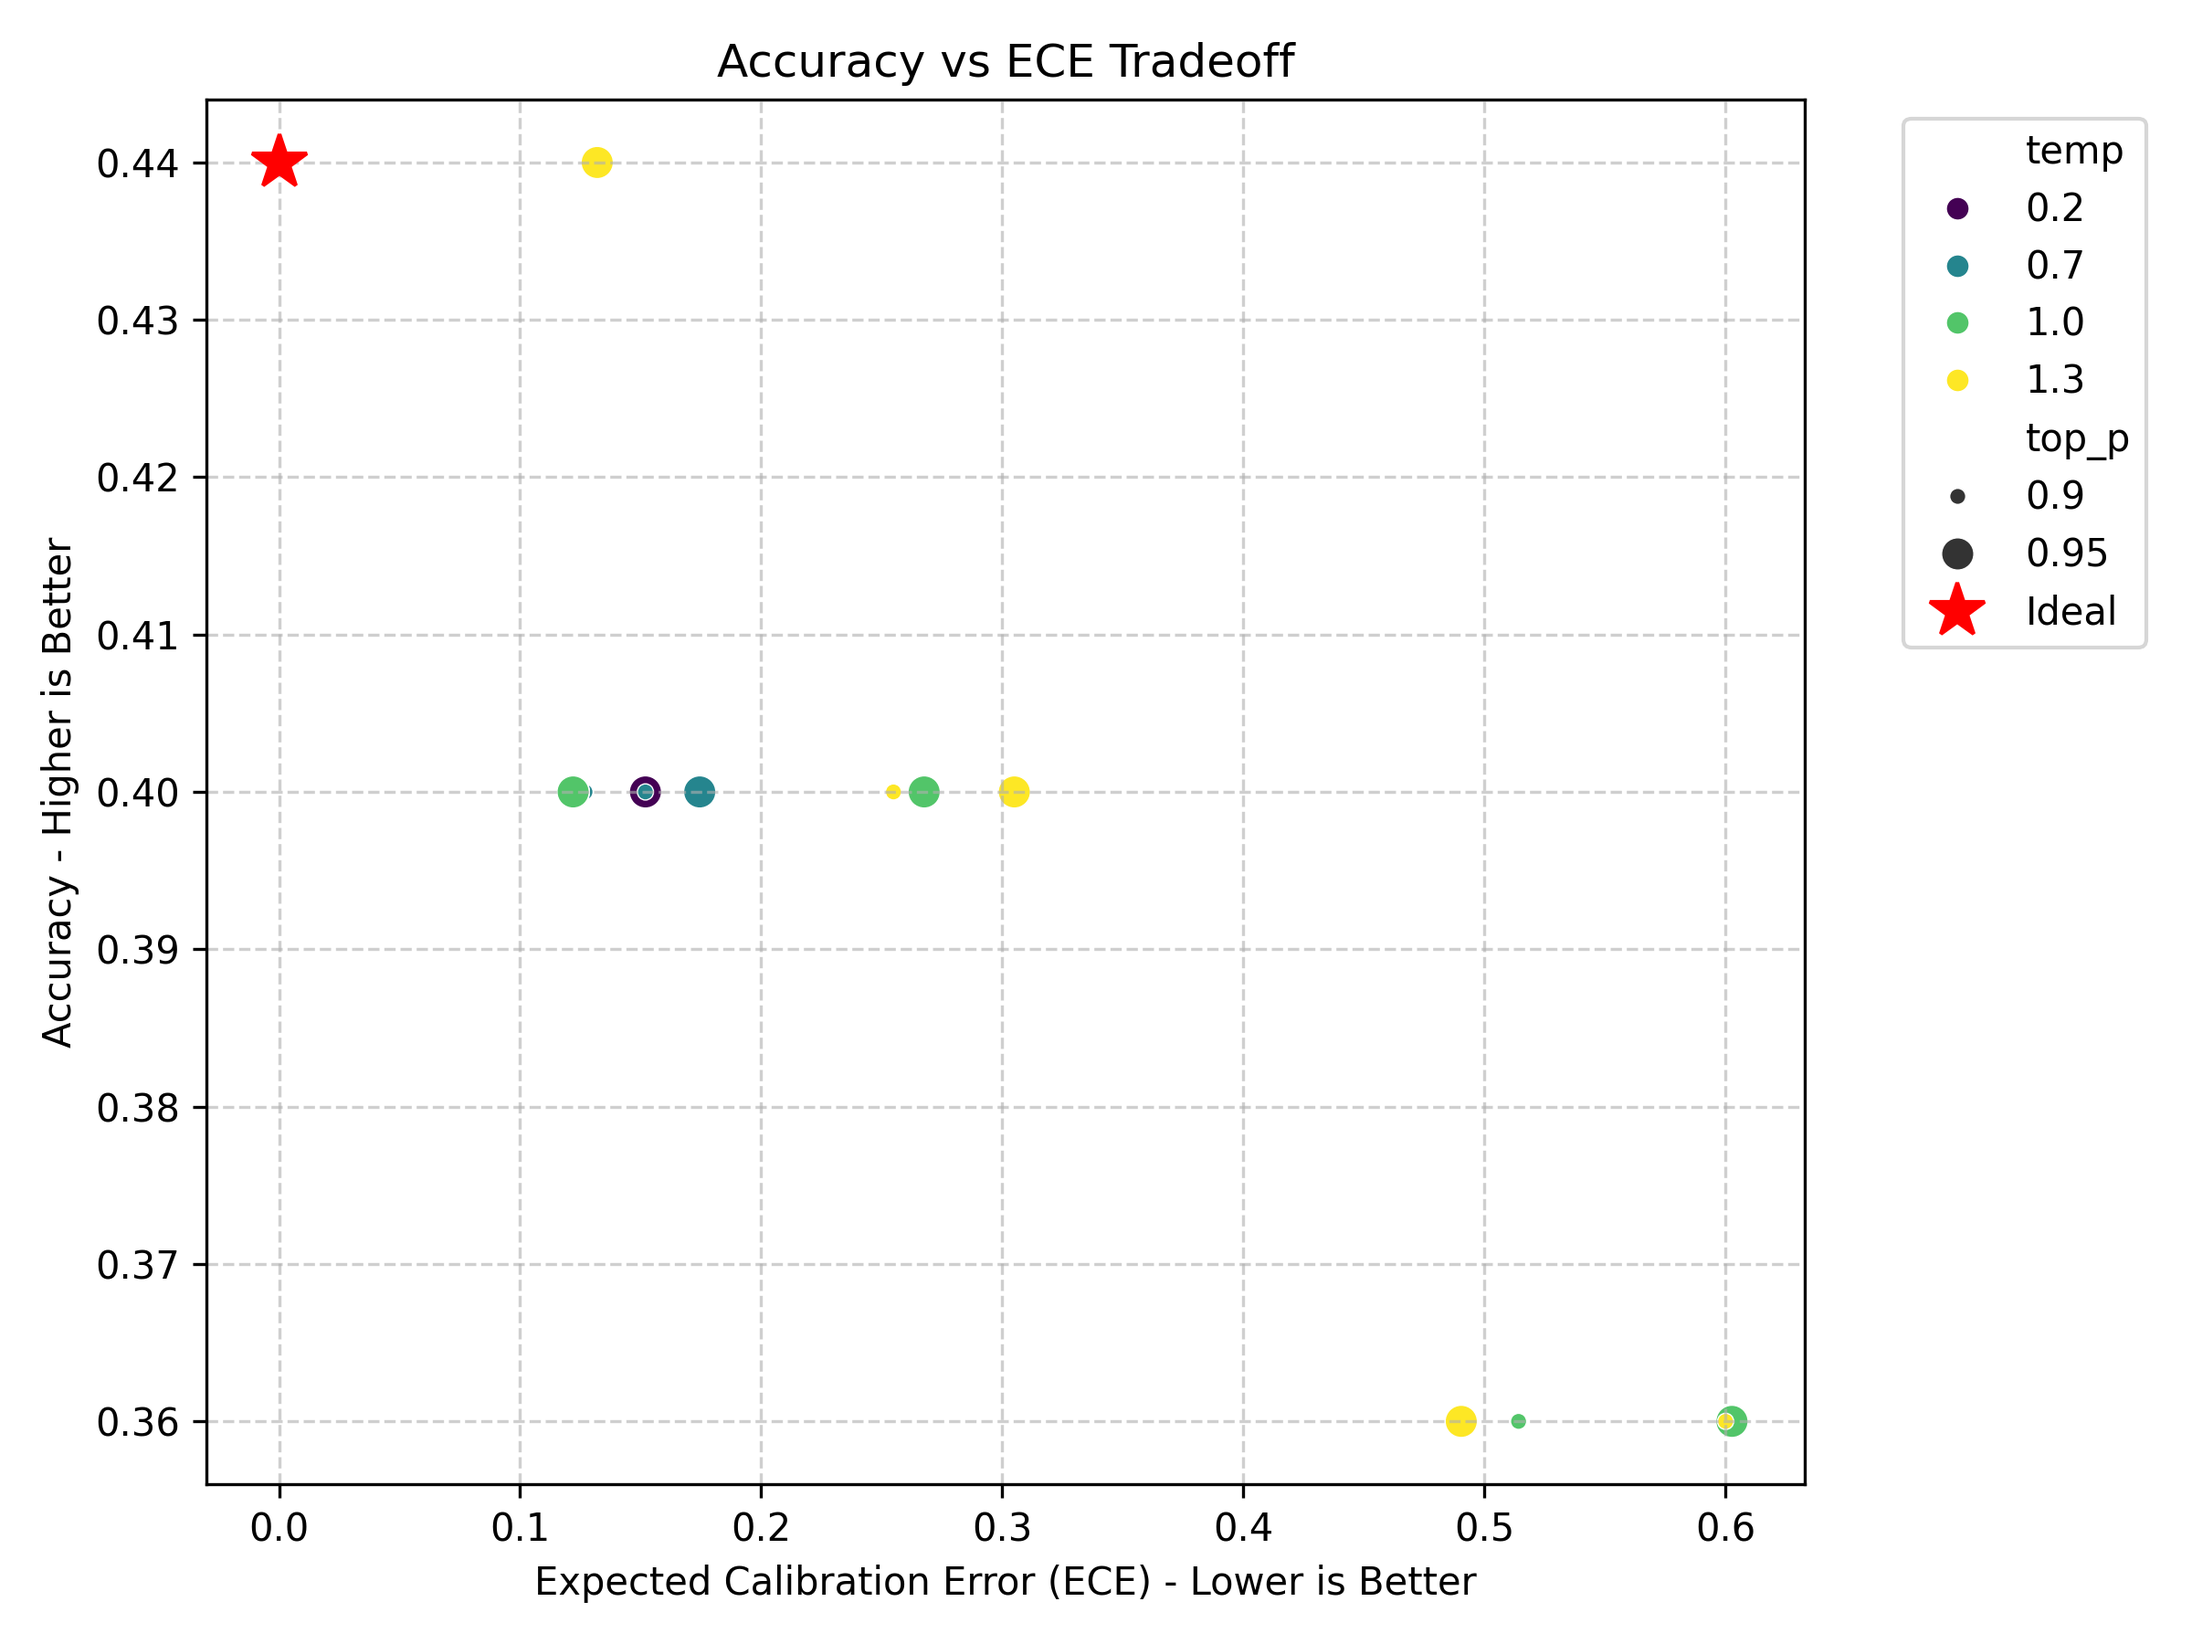
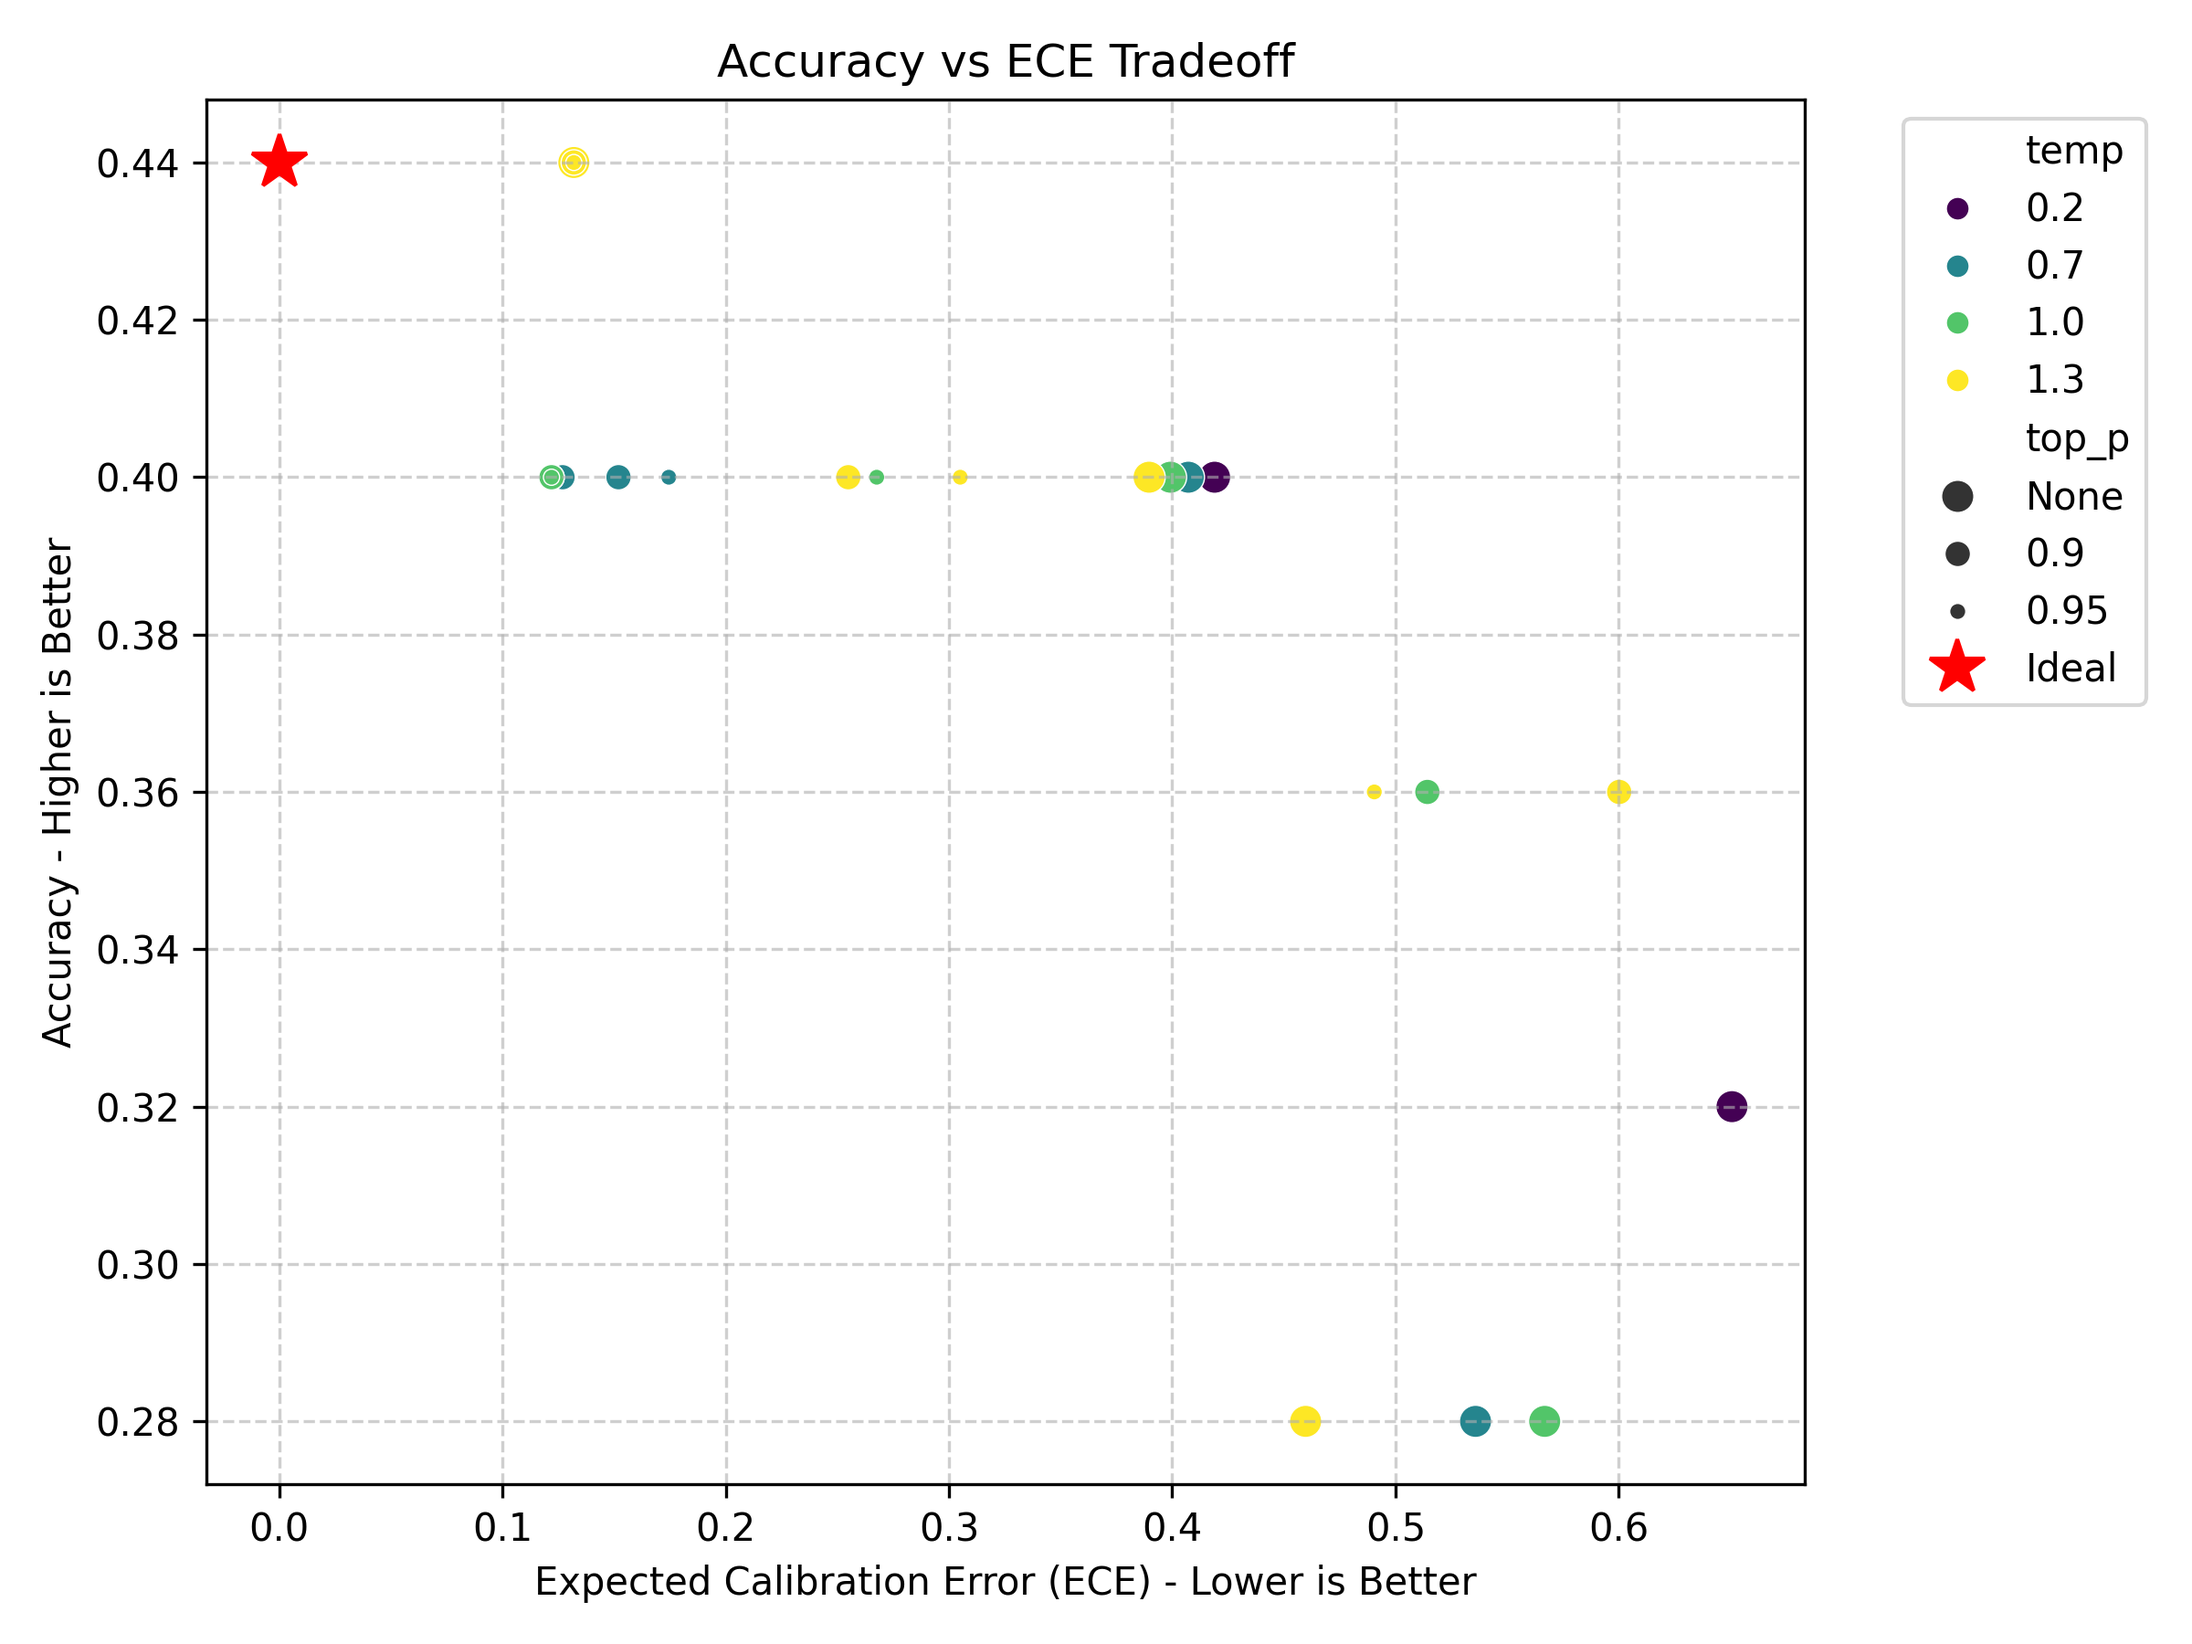
Keep 'None' top_p/top_k labels when plotting sweep results
pd.read_csv parsed the literal 'None' as NaN, so seaborn dropped the
12 untruncated configs and rendered the remaining numeric top_p values
on a sequential palette where 0.9 was near-white. Reading with
keep_default_na=False keeps all 36 configs and gives each top_p/top_k
value a distinct categorical color/style. Regenerated the three
tradeoff figures and findings notes.

diff --git a/scripts/plot_tradeoffs.py b/scripts/plot_tradeoffs.py
@@ -4,7 +4,7 @@ import seaborn as sns
 import os
 
 def plot_tradeoffs(csv_path="results/sweep_master_results.csv", output_dir="figures/"):
-    df = pd.read_csv(csv_path)
+    df = pd.read_csv(csv_path, keep_default_na=False)  # "None" = truncation off; NaN would be dropped by seaborn
     os.makedirs(output_dir, exist_ok=True)
     
     # 1. Accuracy vs Temperature (colored by top-p or top-k)
@@ -47,7 +47,7 @@ def plot_tradeoffs(csv_path="results/sweep_master_results.csv", output_dir="figu
     print(f"Generated tradeoff plots in {output_dir}")
 
 def write_findings(csv_path="results/sweep_master_results.csv", output_path="results/findings_notes.md"):
-    df = pd.read_csv(csv_path)
+    df = pd.read_csv(csv_path, keep_default_na=False)  # "None" = truncation off; NaN would be dropped by seaborn
     
     # Extract bests
     best_acc = df.loc[df['accuracy'].idxmax()]

diff --git a/results/findings_notes.md b/results/findings_notes.md
@@ -4,5 +4,5 @@
 2. **Temperature drives ECE up rapidly:** Increasing temperature heavily worsens calibration (increases ECE). The model becomes artificially overconfident or underconfident, skewing the softmax probabilities without changing the underlying argmax prediction.
 3. **Top-k and Top-p interaction with Confidence:** Extremely severe top-k or top-p truncations can cause the probability of the correct sequence to drop to zero (represented as negative infinity log likelihood). In our tests, `top_k=40` actually improved ECE at higher temperatures slightly by pruning very unlikely tail tokens.
 4. **The Accuracy vs ECE Tradeoff:** There is a clear Pareto frontier. The configurations that yield the lowest ECE generally involve lower temperatures (`0.7` to `1.0`) and mild sampling limits. 
-5. **Ideal Objective Setting:** The highest accuracy configuration was Temp: 0.2, Top-p: nan, Top-k: 40.0 (Accuracy: 0.44).
-6. **Ideal Calibration Setting:** The lowest ECE configuration was Temp: 0.7, Top-p: 0.9, Top-k: 100.0 (ECE: 0.1219999999999999).
+5. **Ideal Objective Setting:** The highest accuracy configuration was Temp: 0.2, Top-p: None, Top-k: 40 (Accuracy: 0.44).
+6. **Ideal Calibration Setting:** The lowest ECE configuration was Temp: 0.7, Top-p: 0.9, Top-k: 100 (ECE: 0.1219999999999999).
